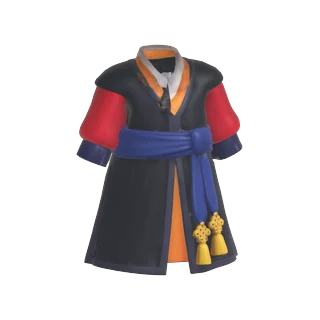
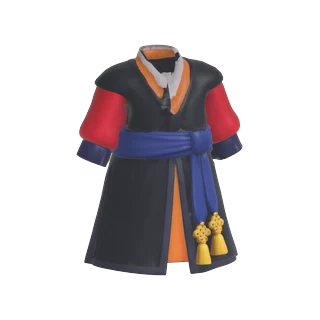
fix(art): 사또 옷깃이 번지고 끊겨 보이는 문제 (#361)
- flat_collar.py: 목 주변 전복 텍스처를 흰색·주황·검정 단색으로 정리
- 게임 변환에 repack=1을 써서 아틀라스 조각 여백을 줄이고 옷깃 텍셀 확보
- 사또 옷 파일·카드 다시 생성, 문서 ④-3에 옷깃 처리 추가

diff --git a/tools/character/flat_collar.py b/tools/character/flat_collar.py
@@ -1,0 +1,86 @@
+"""A collar in clean flat colours: -- <shared.glb> <out.glb> set=k [down=0.13] [up=0.04] [xmax=0.1] [win=15] [grow=6] [white=0.5]
+Tripo painted the 사또's collar (white inner collar, orange band, the black vest around them) with blotches and a
+broken black tie between them; in the game it looked smeared and broken (user). Around the neck (neck joint `down`
+below to `up` above, |x| < xmax) the set's top faces are drawn into a mask in their texture (grown `grow` texels).
+Inside it every texel is sorted into white, orange or dark, the sorting smoothed by a `win`-texel majority (blotches
+and the thin tie go, the borders stay smooth curves), and each sort painted one colour: its median (white lifted to
+the brighter side). Painting per face instead followed the triangles and left the borders sawtoothed."""
+import bpy, bmesh, sys, os, re
+import numpy as np
+
+a = sys.argv[sys.argv.index('--') + 1:]
+src, out = a[0], os.path.abspath(a[1])
+opt = dict(x.split('=', 1) for x in a[2:])
+SET = opt['set']; DOWN, UP, XM = float(opt.get('down', 0.13)), float(opt.get('up', 0.04)), float(opt.get('xmax', 0.1))
+WIN, GROW = int(opt.get('win', 15)), int(opt.get('grow', 6))
+bpy.ops.wm.read_factory_settings(use_empty=True)
+bpy.ops.import_scene.gltf(filepath=src)
+arm = next(o for o in bpy.data.objects if o.type == 'ARMATURE')
+ad = arm.animation_data; active = ad.action if ad else None
+if ad:
+    for t in ad.nla_tracks: t.mute = True
+    ad.action = None
+for pb in arm.pose.bones: pb.matrix_basis.identity()
+bpy.context.view_layer.update()
+neck = arm.matrix_world @ next(b for b in arm.pose.bones if b.name.endswith('Neck')).head
+base = lambda o: re.sub(r'(_\d+)?(\.\d+)?$', '', o.name)
+
+
+def box_sum(m, r):
+    """Sum of m over a (2r+1) square around each texel (integral image)."""
+    c = np.pad(m, ((r + 1, r), (r + 1, r))).cumsum(0).cumsum(1)
+    return c[2 * r + 1:, 2 * r + 1:] - c[:-2 * r - 1, 2 * r + 1:] - c[2 * r + 1:, :-2 * r - 1] + c[:-2 * r - 1, :-2 * r - 1]
+
+
+def fill_triangles(mask, tris):
+    """Rasterize UV triangles (texel coordinates) into mask."""
+    for (x0, y0), (x1, y1), (x2, y2) in tris:
+        xs, ys = (x0, x1, x2), (y0, y1, y2)
+        lx, hx = max(0, int(min(xs))), min(mask.shape[1] - 1, int(max(xs)) + 1)
+        ly, hy = max(0, int(min(ys))), min(mask.shape[0] - 1, int(max(ys)) + 1)
+        if hx < lx or hy < ly: continue
+        X, Y = np.meshgrid(np.arange(lx, hx + 1) + 0.5, np.arange(ly, hy + 1) + 0.5)
+        d = (y1 - y2) * (x0 - x2) + (x2 - x1) * (y0 - y2)
+        if abs(d) < 1e-9: continue
+        l0 = ((y1 - y2) * (X - x2) + (x2 - x1) * (Y - y2)) / d
+        l1 = ((y2 - y0) * (X - x2) + (x0 - x2) * (Y - y2)) / d
+        inside = (l0 >= -0.02) & (l1 >= -0.02) & (1 - l0 - l1 >= -0.02)
+        mask[ly:hy + 1, lx:hx + 1] |= inside
+
+
+done = set()
+for o in [o for o in bpy.data.objects if o.type == 'MESH' and base(o).startswith(f'item__TOP__{SET}')]:
+    img = next((n.image for m in o.data.materials if m and m.node_tree for n in m.node_tree.nodes if n.type == 'TEX_IMAGE' and n.image), None)
+    if not img or img.name in done: continue
+    w_, h_ = img.size; P = np.array(img.pixels[:], np.float32).reshape(h_, w_, -1)
+    mw = o.matrix_world; uvd = o.data.uv_layers.active.data
+    tris = []
+    for p in o.data.polygons:
+        c = mw @ p.center
+        if not (abs(c.x) < XM and neck.z - DOWN < c.z < neck.z + UP): continue
+        us = [(uvd[l].uv.x * w_, uvd[l].uv.y * h_) for l in p.loop_indices]
+        for k in range(1, len(us) - 1): tris.append((us[0], us[k], us[k + 1]))
+    if not tris: continue
+    mask = np.zeros((h_, w_), bool); fill_triangles(mask, tris)
+    if GROW: mask = box_sum(mask.astype(np.float32), GROW) > 0
+    C = P[..., :3]
+    # white only where bright: the vest's grey sheen sorted as white left pale blotches on it
+    cls = np.full((h_, w_), 2, np.int8)                                   # dark (vest, tie, its sheen)
+    cls[C.mean(2) > float(opt.get('white', 0.5))] = 0                     # white
+    cls[(C[..., 0] > 0.4) & (C[..., 0] - C[..., 2] > 0.25)] = 1           # orange
+    votes = np.stack([box_sum(((cls == k) & mask).astype(np.float32), WIN // 2) for k in range(3)])
+    sm = votes.argmax(0)
+    for k, name in ((0, 'white'), (1, 'orange'), (2, 'dark')):
+        sel = mask & (sm == k)
+        if not sel.any(): continue
+        src_ = C[mask & (cls == k)]
+        colour = np.percentile(src_, 70, axis=0) if k == 0 else np.median(src_, axis=0)
+        P[sel, :3] = colour
+        print('COLLAR', img.name, name, int(sel.sum()), 'texels to', colour.round(2).tolist())
+    img.pixels[:] = P.ravel(); img.pack(); done.add(img.name)
+if ad:
+    for t in ad.nla_tracks: t.mute = False
+    ad.action = active
+bpy.ops.export_scene.gltf(filepath=out, export_format='GLB', export_animations=True, export_animation_mode='NLA_TRACKS',
+                          export_skins=True, export_apply=False, export_image_format='AUTO')
+print('RESULT', out)

diff --git a/docs/character-outfits.md b/docs/character-outfits.md
@@ -192,13 +192,19 @@
 - Tripo 부품: 0 전립, 1 머리(머리카락·구슬·얼굴이 한 부품), 10 전복 윗부분, 6·8 소매, 2 전복 자락, 11 주황 안감, 3 띠와 술, 4·5 목화, 7·9 손(버림). 바지는 나오지 않았다.
 - `satto_prep.py`: 부품 1을 색으로 나눠 머리카락(90, 버림), 구슬(92, 모자 아이템), 턱 위 얼굴(91, `head_fit`)로 만들고, 자락(2)을 93으로 복사한다. 93은 하의 자리에 두어 `pants=1`이 몸 표면으로 만든 바지에 검은색을 준다.
 - 모자 아래 머리: 구슬 끈(1774면)이 얼굴 옆을 지나 옆머리를 잘라 내지 않게 `straps=2000`. 구슬이 주황이라 `drop_hair=1`(갈색 조각 빼기)은 쓰지 않는다.
+- 옷깃: 게임에서 흰 깃·주황 띠가 번지고 끊겨 보였다(user). 두 가지를 고쳤다.
+  - 원본 얼룩: `flat_collar.py`가 목 주변 전복 텍스처를 흰색·주황·검정으로 나누고(`win=31` 다수결로 얼룩과 끊긴 검은 끈 제거) 각각 한 색으로 칠한다.
+  - 게임 변환: 각도 1.5도로 새로 펼친 조각이 수천 개라 조각 사이 여백이 아틀라스를 차지해, 옷깃에 텍셀이 적게 돌아가 계단처럼 뭉개졌다. `repack=1`로 여백을 줄여 다시 배치한다. `atlas=4096`이나 `bake=project`, 목 주변 감량 제외로는 나아지지 않았다.
 
 ```bash
 "$B" -b --python tools/character/satto_prep.py -- satto_outfit_parts.glb satto_parts_prep.glb
 "$B" -b --python tools/character/fit_outfit.py -- shared_layers_hij.glb satto_parts_prep.glb shared_k.glb set=k s=1.065 head_fit=91 "map=HAIR:0,92;TOP:10,6,8,2,11,3;BOTTOM:93;SHOES:4,5" skirt=TOP pants=1 under_tops=1 cull=1 "seam=10>6,8" dark_lining=SHOES shoe_cap=1 shoe_cap_depth=0.01 under_layer=1 under_layer_sink=0.012 under_skirt=0.15 skirt_leg=0.9 push_neck=back rim_neck=20
 "$B" -b --python tools/character/hat_hair.py -- shared_k.glb hk.glb set=k girl=j straps=2000
-"$B" -b --python tools/character/to_game.py -- hk.glb out/satto_raw.glb satto HAIR=k TOP=k BOTTOM=k SHOES=k pieces=1 body=0 near=75000 atlas=2048 fill=1 keep_head=0
+"$B" -b --python tools/character/flat_collar.py -- hk.glb hk_c.glb set=k win=31
+"$B" -b --python tools/character/to_game.py -- hk_c.glb out/satto_raw.glb satto HAIR=k TOP=k BOTTOM=k SHOES=k pieces=1 body=0 near=75000 atlas=2048 fill=1 keep_head=0 repack=1
 ```
+
+- 카드(`item_art.py`)도 `hk_c.glb`에서 그린다.
 
 - 새 몸 조각(`TOPk` 등)이 생기므로 남자·여자 파일도 `hk.glb`에서 다시 만들고, 캐릭터 캐시 번호(`characterAssets.ts`의 `?rig=`)를 올린다.
 
